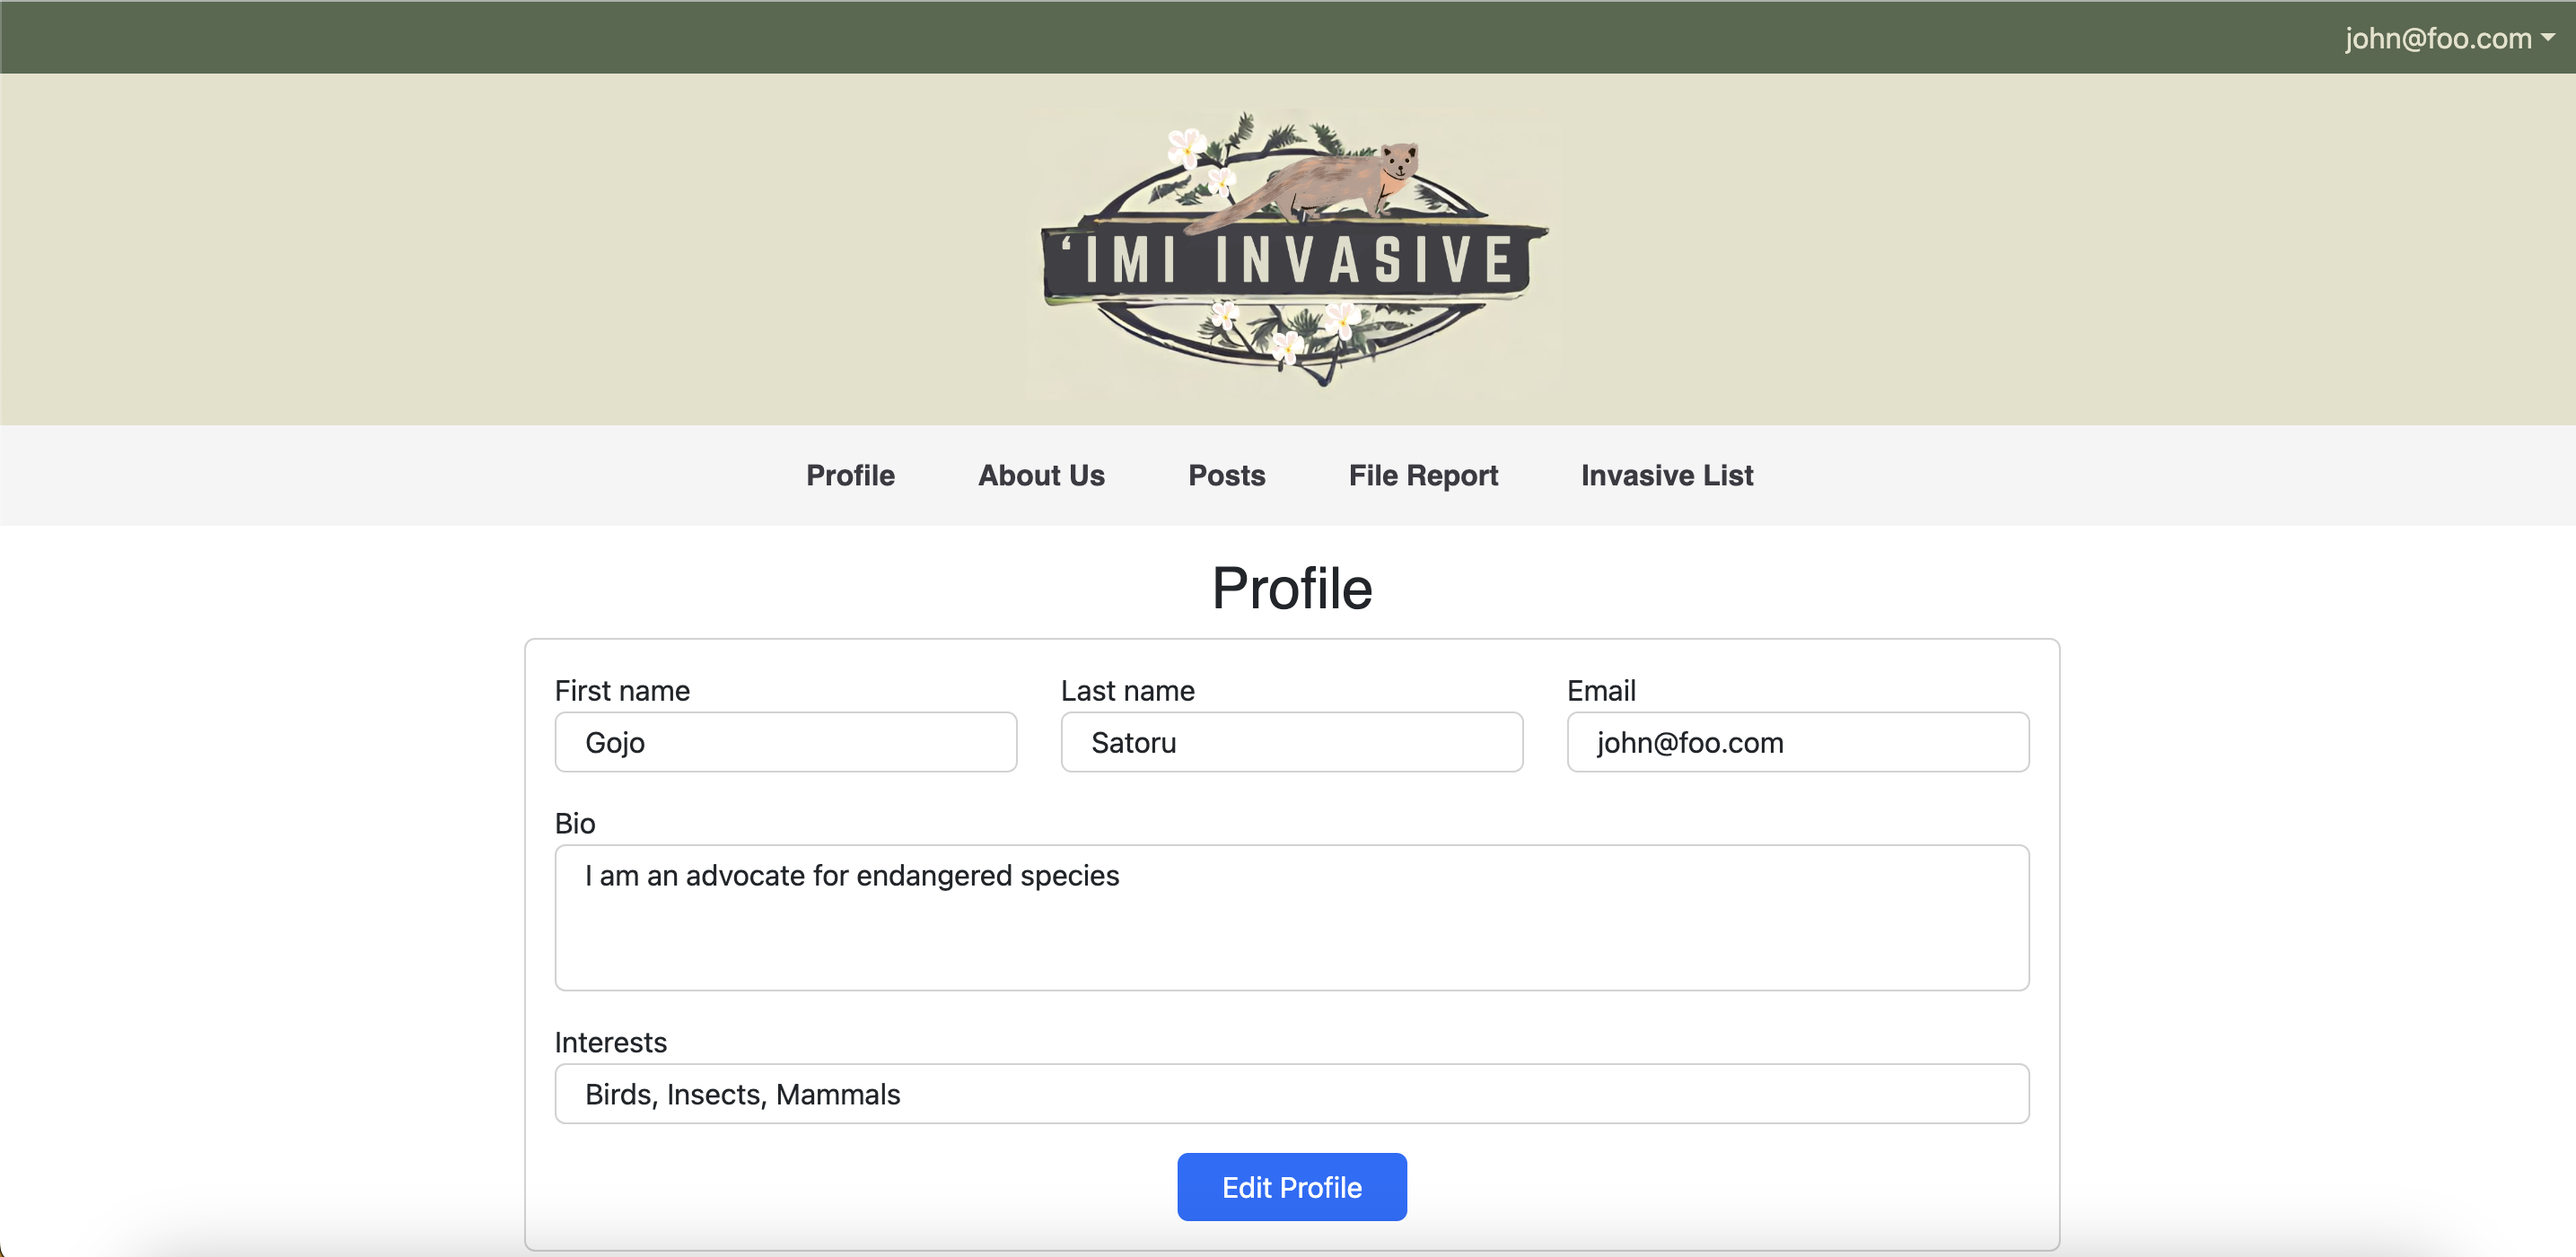
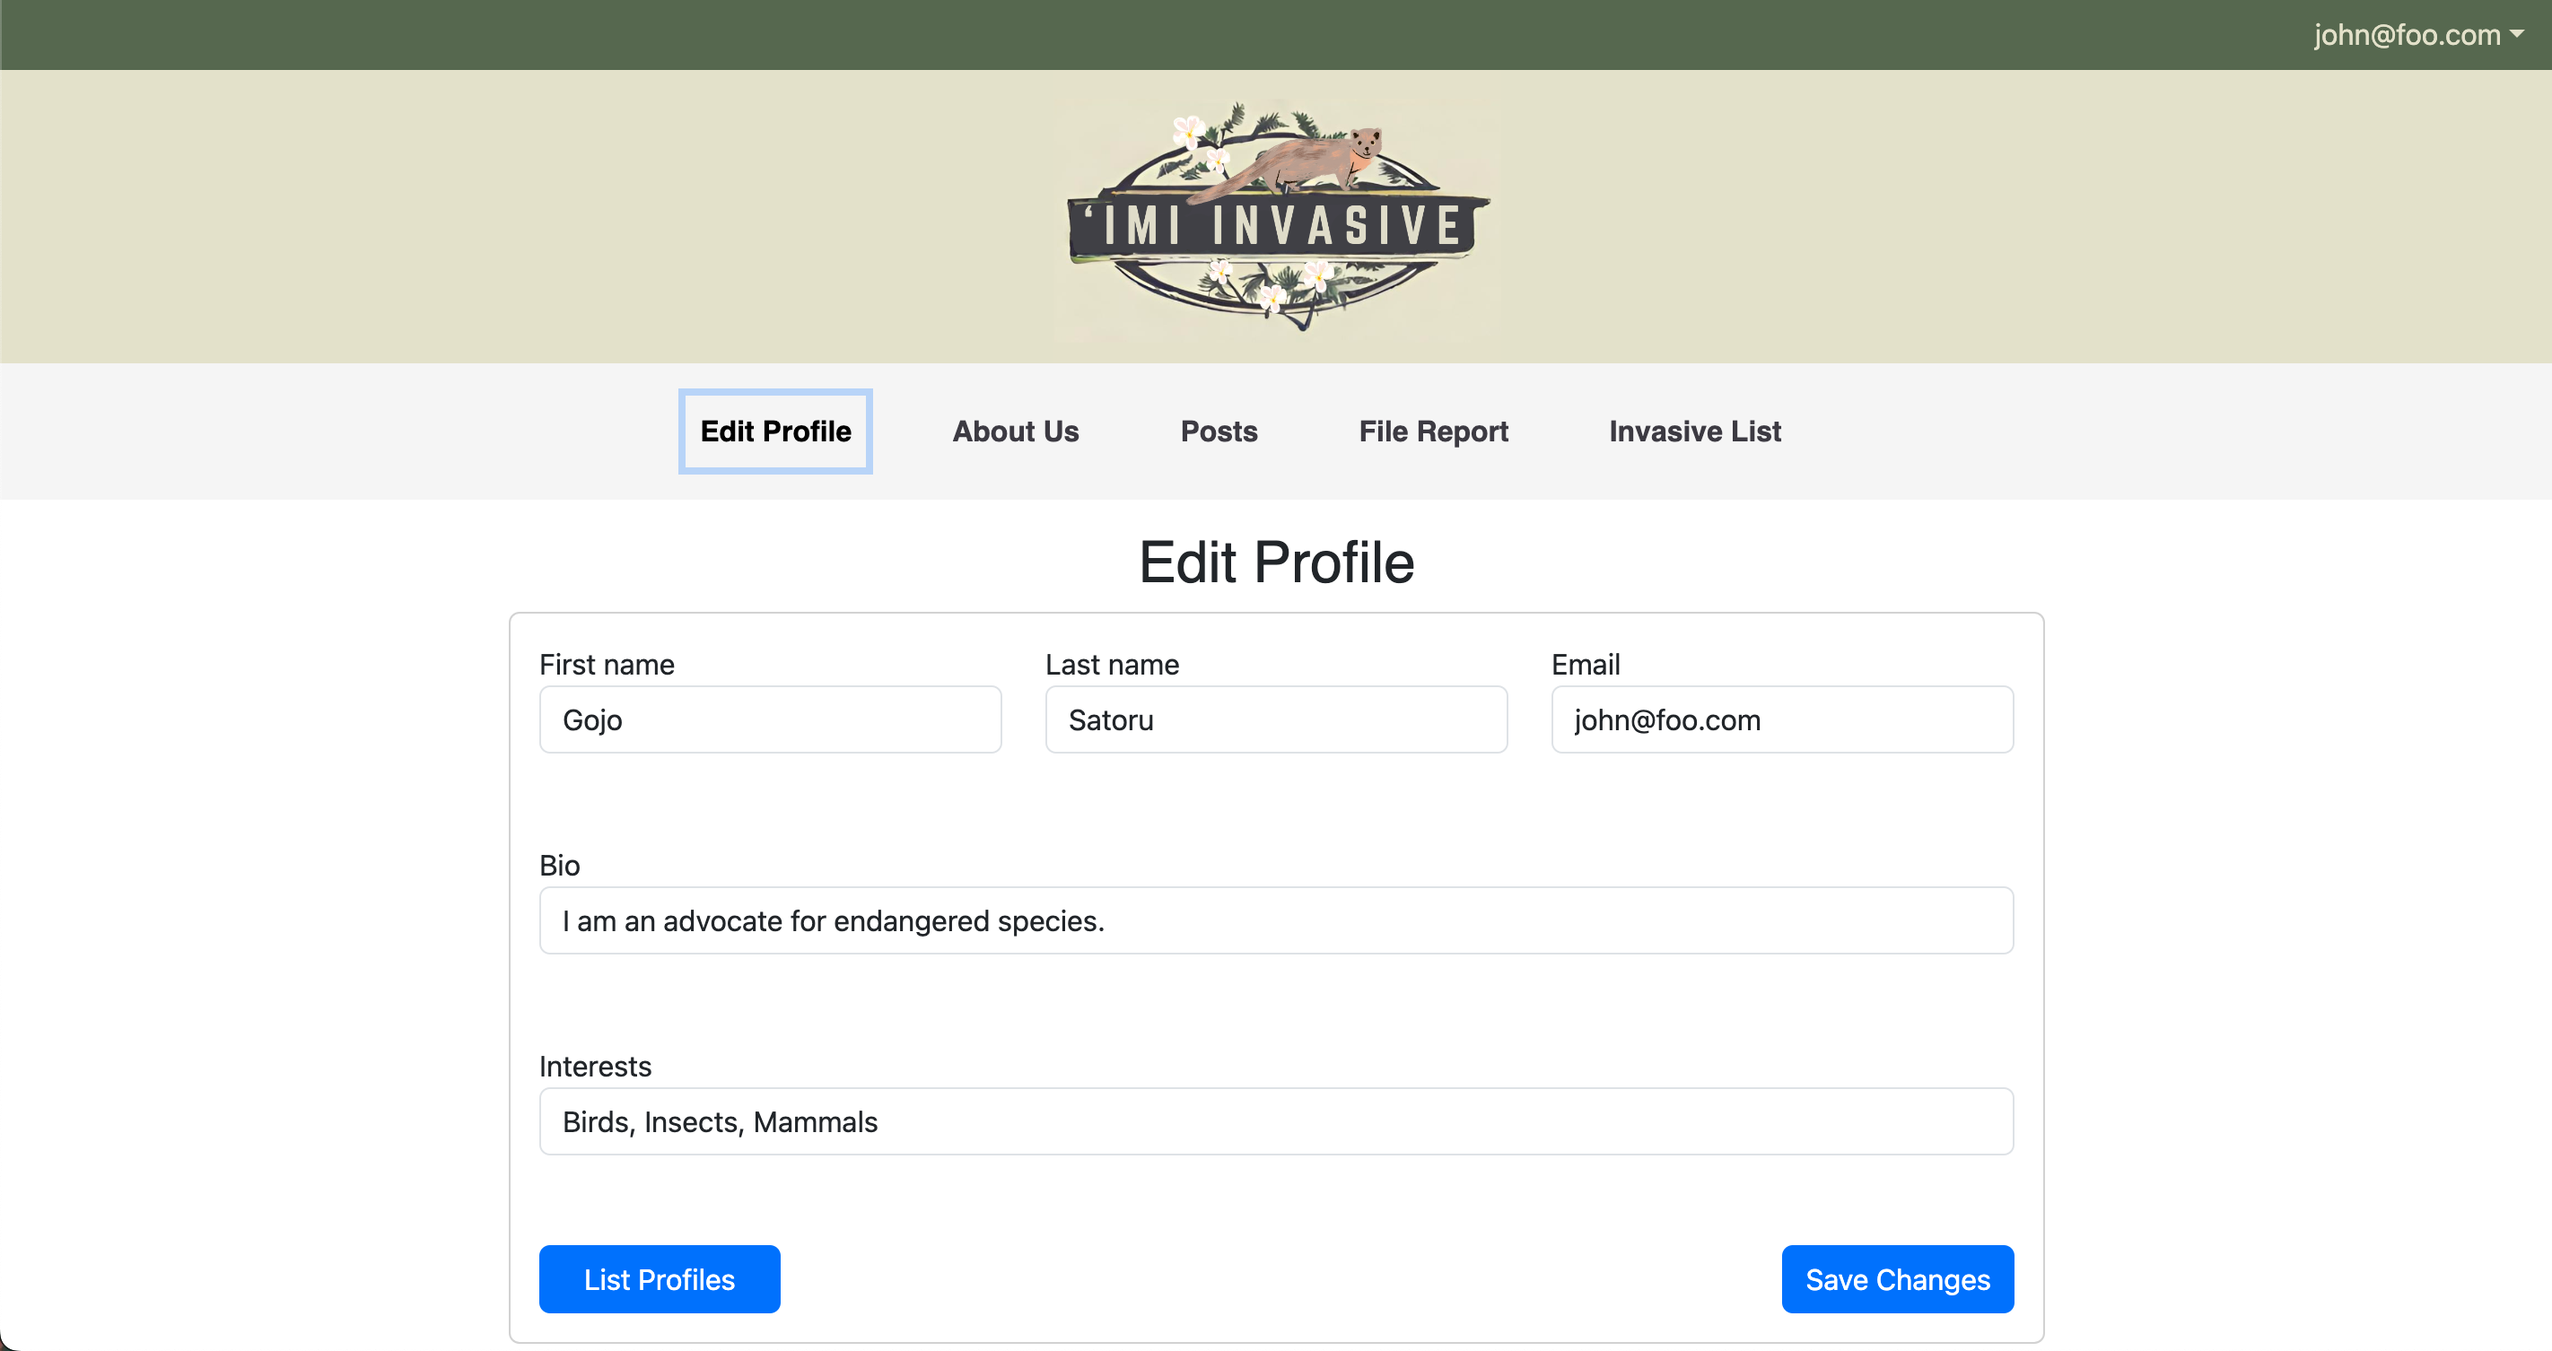
included profile pages
Took 6 minutes

diff --git a/index.md b/index.md
@@ -58,10 +58,15 @@ After clicking "Posts" in the navigation bar, the Posts page displays the verifi
 
 <img src="doc/posts-new.png">
 
-### Profile Page
-After clicking "Profiles" in the navigation bar, users are taken to the Profiles page. This presents a view only profile which the user can see their profile data such as first name, last name, email, biography, and interests. There is also an "Edit Profile" button that allows users to edit their profiles and change their information when needed.
+### Edit Profile Page
+After clicking "Edit Profiles" in the navigation bar, users are taken to the Profiles page. This presents a view only profile which the user can see their profile data such as first name, last name, email, biography, and interests.  There are two buttons: "List Profiles" and "Save Changes" also a "Save Changes". The "Save Changes" button allows users to save any changes made. The "List Profiles Button" allows you to view all profiles.
 
 <img src="doc/profile-new.png">
+
+### List Profiles Page
+After clicking the "List Profiles" button, users are taken to the List Profiles page. This page displays all the profiles of users who have signed up for the app.
+
+<img src="doc/list-profiles-new.png">
 
 ### About Us Page
 After clicking "About Us" in the navigation bar, users are taken to the About Us page which provides information about the team and the project's overall message.
